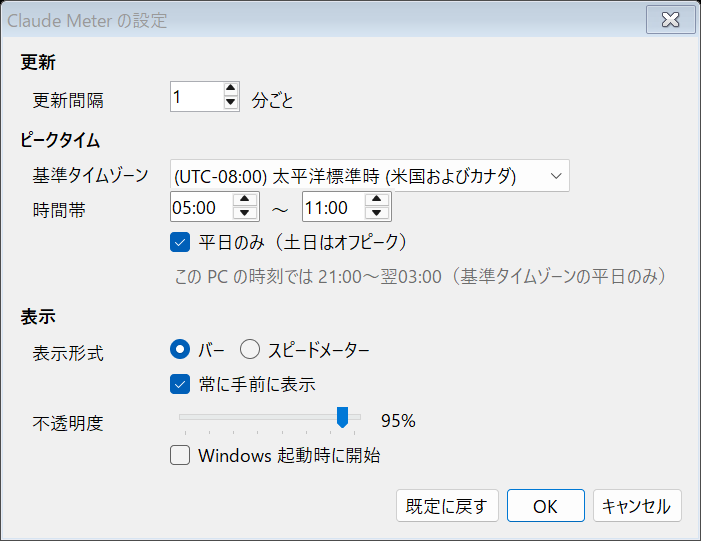
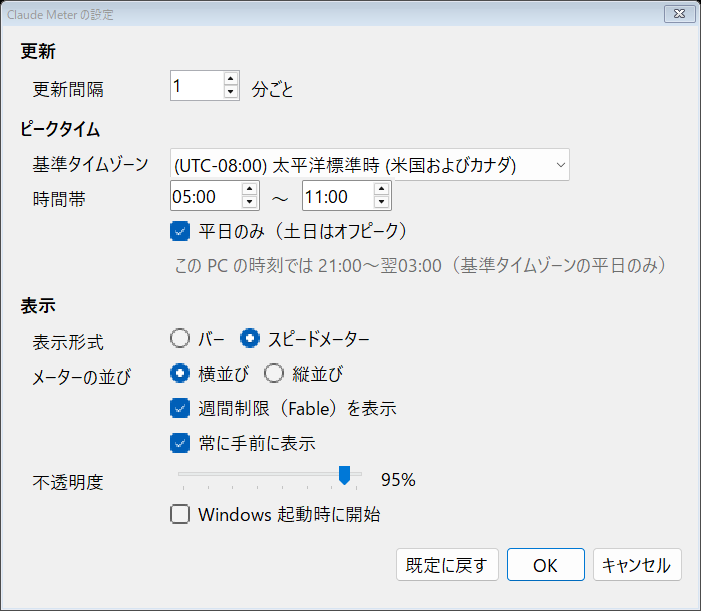
Add Fable visibility toggle and vertical gauge layout
Users without Fable access can hide the weekly Fable meter. The
speedometer view can now stack its dials vertically as well as
horizontally. Both options are in the settings window.

diff --git a/src/ClaudeMeter.cs b/src/ClaudeMeter.cs
@@ -65,6 +65,8 @@ namespace ClaudeMeter
         public bool TopMost = true;
         public double Opacity = 0.95;
         public string Style = "bar"; // "bar" または "gauge"（スピードメーター）
+        public bool GaugeVertical = false; // スピードメーターを縦に並べる
+        public bool ShowFable = true; // Fable を使えないプランでは非表示にできる
         public int X = -1;
         public int Y = -1;
 
@@ -90,6 +92,8 @@ namespace ClaudeMeter
                     if (d.TryGetValue("peakWeekdaysOnly", out v)) s.PeakWeekdaysOnly = Convert.ToBoolean(v);
                     if (d.TryGetValue("topMost", out v)) s.TopMost = Convert.ToBoolean(v);
                     if (d.TryGetValue("style", out v)) s.Style = Convert.ToString(v) == "gauge" ? "gauge" : "bar";
+                    if (d.TryGetValue("gaugeVertical", out v)) s.GaugeVertical = Convert.ToBoolean(v);
+                    if (d.TryGetValue("showFable", out v)) s.ShowFable = Convert.ToBoolean(v);
                     if (d.TryGetValue("opacity", out v)) s.Opacity = Math.Min(1.0, Math.Max(0.3, Convert.ToDouble(v, CultureInfo.InvariantCulture)));
                     if (d.TryGetValue("x", out v)) s.X = Convert.ToInt32(v);
                     if (d.TryGetValue("y", out v)) s.Y = Convert.ToInt32(v);
@@ -112,6 +116,8 @@ namespace ClaudeMeter
                 d["peakEnd"] = PeakEnd;
                 d["peakWeekdaysOnly"] = PeakWeekdaysOnly;
                 d["style"] = Style;
+                d["gaugeVertical"] = GaugeVertical;
+                d["showFable"] = ShowFable;
                 d["topMost"] = TopMost;
                 d["opacity"] = Opacity;
                 d["x"] = X;
@@ -529,6 +535,9 @@ namespace ClaudeMeter
         readonly Label localPeak = new Label { AutoSize = true, ForeColor = SystemColors.GrayText };
         readonly RadioButton styleBar = new RadioButton { Text = "バー", AutoSize = true };
         readonly RadioButton styleGauge = new RadioButton { Text = "スピードメーター", AutoSize = true };
+        readonly RadioButton layoutHorizontal = new RadioButton { Text = "横並び", AutoSize = true };
+        readonly RadioButton layoutVertical = new RadioButton { Text = "縦並び", AutoSize = true };
+        readonly CheckBox showFable = new CheckBox { Text = "週間制限（Fable）を表示", AutoSize = true };
         readonly CheckBox topMost = new CheckBox { Text = "常に手前に表示", AutoSize = true };
         readonly TrackBar opacity = new TrackBar { Minimum = 30, Maximum = 100, TickFrequency = 10, SmallChange = 5, LargeChange = 10, Width = 200, AutoSize = false, Height = 30 };
         readonly Label opacityValue = new Label { AutoSize = true, Anchor = AnchorStyles.Left };
@@ -567,6 +576,8 @@ namespace ClaudeMeter
 
             Section(table, "表示");
             Row(table, "表示形式", Flow(styleBar, styleGauge));
+            Row(table, "メーターの並び", Flow(layoutHorizontal, layoutVertical));
+            Row(table, "", showFable);
             Row(table, "", topMost);
             Row(table, "不透明度", Flow(opacity, opacityValue));
             Row(table, "", startup);
@@ -592,6 +603,7 @@ namespace ClaudeMeter
             peakEnd.ValueChanged += delegate { UpdateLocalPeak(); };
             weekdaysOnly.CheckedChanged += delegate { UpdateLocalPeak(); };
             opacity.ValueChanged += delegate { opacityValue.Text = opacity.Value + "%"; };
+            styleGauge.CheckedChanged += delegate { UpdateLayoutEnabled(); };
 
             LoadValues(s, startupEnabled);
         }
@@ -608,6 +620,10 @@ namespace ClaudeMeter
             weekdaysOnly.Checked = s.PeakWeekdaysOnly;
             styleGauge.Checked = s.Style == "gauge";
             styleBar.Checked = !styleGauge.Checked;
+            layoutVertical.Checked = s.GaugeVertical;
+            layoutHorizontal.Checked = !s.GaugeVertical;
+            showFable.Checked = s.ShowFable;
+            UpdateLayoutEnabled();
             topMost.Checked = s.TopMost;
             opacity.Value = (int)Math.Round(Math.Min(1.0, Math.Max(0.3, s.Opacity)) * 100);
             opacityValue.Text = opacity.Value + "%";
@@ -624,8 +640,16 @@ namespace ClaudeMeter
             s.PeakEnd = peakEnd.Value.ToString("HH:mm", CultureInfo.InvariantCulture);
             s.PeakWeekdaysOnly = weekdaysOnly.Checked;
             s.Style = styleGauge.Checked ? "gauge" : "bar";
+            s.GaugeVertical = layoutVertical.Checked;
+            s.ShowFable = showFable.Checked;
             s.TopMost = topMost.Checked;
             s.Opacity = opacity.Value / 100.0;
+        }
+
+        // 並びの指定はスピードメーターのときだけ意味がある
+        void UpdateLayoutEnabled()
+        {
+            layoutHorizontal.Enabled = layoutVertical.Enabled = styleGauge.Checked;
         }
 
         // 選んだタイムゾーンの時間帯が、この PC の時刻で今日何時になるかを示す
@@ -734,8 +758,29 @@ namespace ClaudeMeter
         bool scaleForced;
         Font titleFont, labelFont, pctFont, smallFont;
         bool IsGauge { get { return settings.Style == "gauge"; } }
-        int BaseWidth { get { return IsGauge ? 414 : 260; } }
-        int BaseHeight { get { return IsGauge ? 214 : 222; } }
+        bool IsVertical { get { return IsGauge && settings.GaugeVertical; } }
+        int MeterCount { get { return settings.ShowFable ? 3 : 2; } }
+        const int GaugeCell = 130, GaugeRow = 134;
+
+        int BaseWidth
+        {
+            get
+            {
+                if (!IsGauge) return 260;
+                return 24 + (IsVertical ? 146 : GaugeCell * MeterCount);
+            }
+        }
+
+        // メーター部の下にピーク表示（縦並びは2行）とエラー行が入る
+        int BaseHeight
+        {
+            get
+            {
+                if (!IsGauge) return 34 + 46 * MeterCount + 50;
+                if (IsVertical) return 34 + GaugeRow * MeterCount + 56;
+                return 214;
+            }
+        }
 
         int S(float v) { return (int)Math.Round(v * scale); }
 
@@ -781,7 +826,14 @@ namespace ClaudeMeter
         {
             this.snapshotPath = snapshotPath;
             settings = Settings.Load();
-            if (SnapshotStyle != null) settings.Style = SnapshotStyle;
+            if (SnapshotStyle != null)
+            {
+                // 例: "gauge,vertical,nofable"
+                var opts = new List<string>(SnapshotStyle.Split(','));
+                settings.Style = opts.Contains("gauge") ? "gauge" : "bar";
+                settings.GaugeVertical = opts.Contains("vertical");
+                settings.ShowFable = !opts.Contains("nofable");
+            }
 
             Text = "Claude Meter";
             FormBorderStyle = FormBorderStyle.None;
@@ -901,20 +953,28 @@ namespace ClaudeMeter
             string status = fetching ? "更新中…" : (last != null ? last.FetchedAt.ToString("HH:mm") + " 更新" : "");
             DrawRight(g, status, smallFont, Theme.Sub, pad + w, S(10));
 
+            var labels = new List<string> { "5時間制限", "週間制限" };
+            var wins = new List<UsageWindow> { last == null ? null : last.FiveHour, last == null ? null : last.Weekly };
+            if (settings.ShowFable)
+            {
+                labels.Add("週間制限（Fable）");
+                wins.Add(last == null ? null : last.WeeklyFable);
+            }
+
             int y = S(34);
             if (IsGauge)
             {
-                int cw = w / 3;
-                DrawGauge(g, "5時間制限", last == null ? null : last.FiveHour, pad, y, cw);
-                DrawGauge(g, "週間制限", last == null ? null : last.Weekly, pad + cw, y, cw);
-                DrawGauge(g, "週間制限（Fable）", last == null ? null : last.WeeklyFable, pad + cw * 2, y, cw);
-                y += S(134);
+                int cw = IsVertical ? w : w / labels.Count;
+                for (int i = 0; i < labels.Count; i++)
+                {
+                    if (IsVertical) { DrawGauge(g, labels[i], wins[i], pad, y, cw); y += S(GaugeRow); }
+                    else DrawGauge(g, labels[i], wins[i], pad + cw * i, y, cw);
+                }
+                if (!IsVertical) y += S(GaugeRow);
             }
             else
             {
-                DrawMeter(g, "5時間制限", last == null ? null : last.FiveHour, pad, y, w); y += S(46);
-                DrawMeter(g, "週間制限", last == null ? null : last.Weekly, pad, y, w); y += S(46);
-                DrawMeter(g, "週間制限（Fable）", last == null ? null : last.WeeklyFable, pad, y, w); y += S(46);
+                for (int i = 0; i < labels.Count; i++) { DrawMeter(g, labels[i], wins[i], pad, y, w); y += S(46); }
             }
 
             // ピーク／オフピーク
@@ -926,7 +986,9 @@ namespace ClaudeMeter
             if (change != DateTime.MaxValue)
             {
                 string when = (peak ? "終了 " : "開始 ") + FormatWhen(change) + "（" + FormatSpan(change - DateTime.Now) + "）";
-                DrawRight(g, when, smallFont, Theme.Sub, pad + w, y + S(2));
+                // 縦並びは幅が狭いので2行目に出す
+                if (IsVertical) Draw(g, when, smallFont, Theme.Sub, pad + S(15), y + S(19));
+                else DrawRight(g, when, smallFont, Theme.Sub, pad + w, y + S(2));
             }
 
             if (last != null && last.Error != null)
@@ -1074,7 +1136,7 @@ namespace ClaudeMeter
             var sb = new StringBuilder("Claude");
             if (last.FiveHour.Present) sb.Append(" 5h:" + Math.Round(last.FiveHour.Utilization) + "%");
             if (last.Weekly.Present) sb.Append(" 週:" + Math.Round(last.Weekly.Utilization) + "%");
-            if (last.WeeklyFable.Present) sb.Append(" Fable:" + Math.Round(last.WeeklyFable.Utilization) + "%");
+            if (settings.ShowFable && last.WeeklyFable.Present) sb.Append(" Fable:" + Math.Round(last.WeeklyFable.Utilization) + "%");
             string t = sb.ToString();
             tray.Text = t.Length > 63 ? t.Substring(0, 63) : t;
         }

diff --git a/README.md b/README.md
@@ -50,6 +50,8 @@ build.bat
 | 時間帯 | 05:00〜11:00 | ピークタイムの開始・終了（基準タイムゾーンでの時刻）。下にこの PC の時刻に換算した時間帯が表示されます |
 | 平日のみ | オン | オンのとき、基準タイムゾーンの土日はオフピーク扱い |
 | 表示形式 | バー | 横バー表示か、車のスピードメーターのような文字盤表示かを選択 |
+| メーターの並び | 横並び | スピードメーター表示のとき、文字盤を横に並べるか縦に並べるか |
+| 週間制限（Fable）を表示 | オン | Fable を使えないプランではオフにすると表示から外せます |
 | 常に手前に表示 | オン | メーターを他のウィンドウより手前に表示 |
 | 不透明度 | 95% | メーターの不透明度（30〜100%） |
 | Windows 起動時に開始 | オフ | サインイン時に自動で起動（管理者権限不要） |
